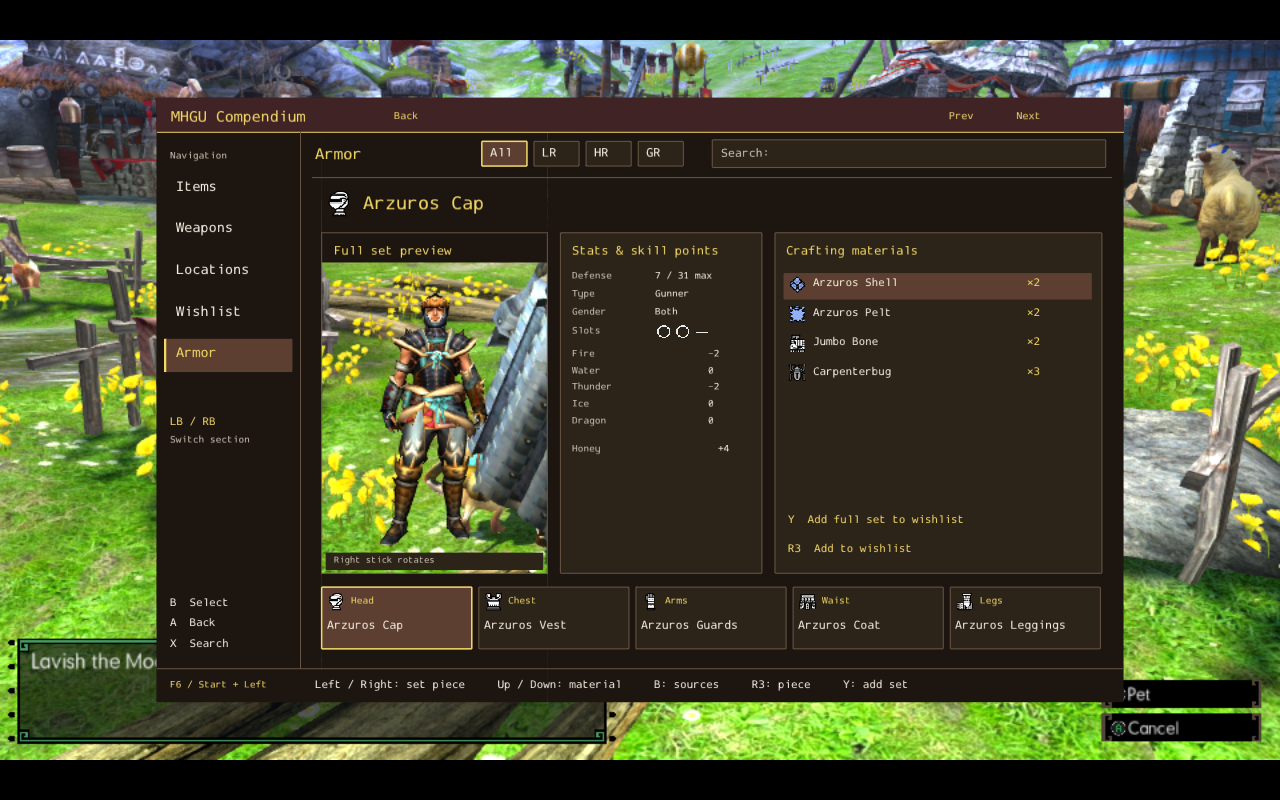
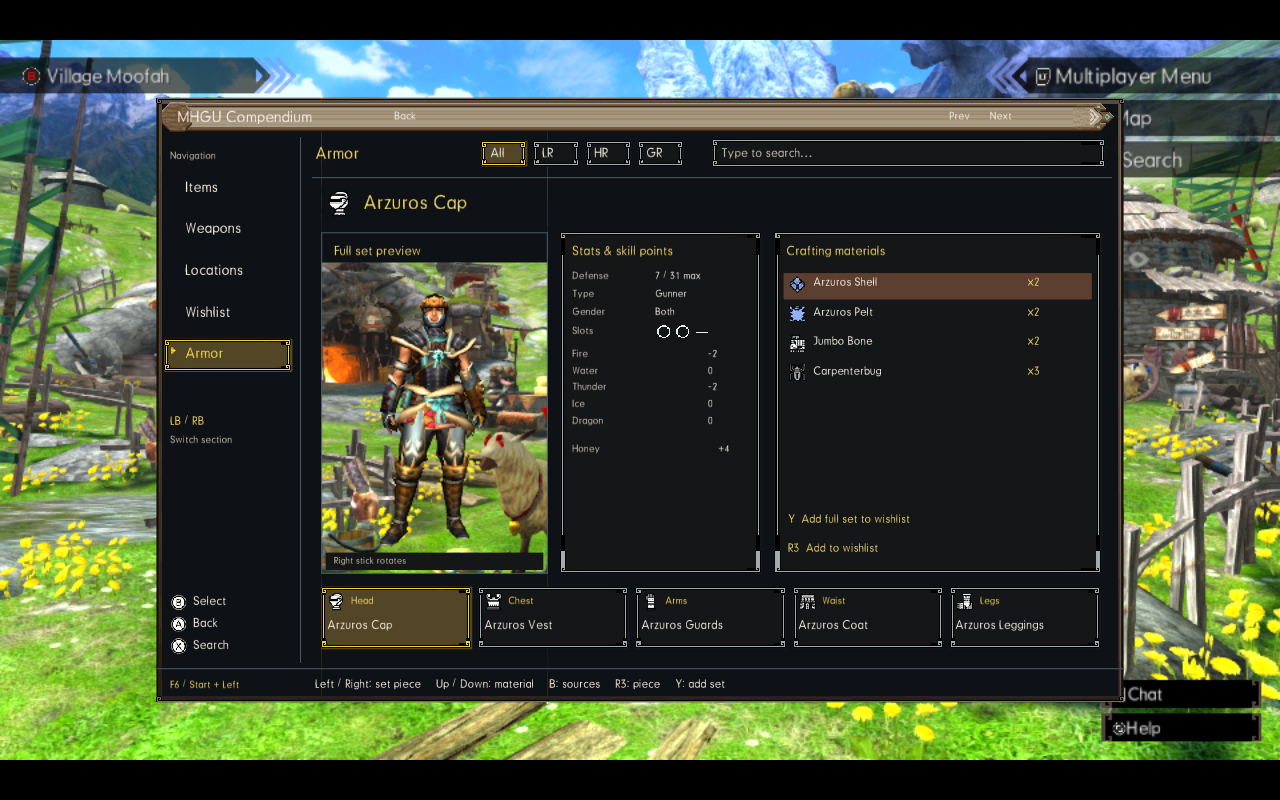
feat: use native mhgu artwork and inline search

diff --git a/mod/src/view.rs b/mod/src/view.rs
@@ -2,15 +2,17 @@ use super::{Ui,Text,catalog,world};
 use core::{fmt::Write,cell::Cell};
 use super::desktop::{self,Action};
 use forge::{imgui,sys::imgui::ImVec2};
-const BG:u32=0xff10151c;const PANEL:u32=0xff19232c;const EDGE:u32=0xff455467;const CYAN:u32=0xff65d7f2;const TEXT:u32=0xffe3eff6;const MUTED:u32=0xffb5c4ce;
-struct Canvas{d:imgui::DrawList,f:imgui::ImFont,s:f32,x:f32,y:f32,click:Option<(f32,f32)>,action:Cell<Action>}
+const BG:u32=0xff16120e;const PANEL:u32=0xff181614;const EDGE:u32=0xff62584b;const CYAN:u32=0xff65d7f2;const TEXT:u32=0xffe3eff6;const MUTED:u32=0xffb5c4ce;const GOLD:u32=0xff46d8f2;
+struct Canvas{d:imgui::DrawList,f:*mut forge::sys::imgui::ImFont,s:f32,x:f32,y:f32,click:Option<(f32,f32)>,action:Cell<Action>}
 impl Canvas{
  fn hit(&self,x:f32,y:f32,w:f32,h:f32,a:Action){if let Some((mx,my))=self.click{let p=self.v(x,y);if mx>=p.x&&mx<p.x+w*self.s&&my>=p.y&&my<p.y+h*self.s{self.action.set(a);}}}
  fn v(&self,x:f32,y:f32)->ImVec2{ImVec2{x:self.x+x*self.s,y:self.y+y*self.s}}
  fn rect(&self,x:f32,y:f32,w:f32,h:f32,c:u32){self.d.add_rect_filled(self.v(x,y),self.v(x+w,y+h),c,1.0*self.s);}
  fn line(&self,x:f32,y:f32,x2:f32,y2:f32,c:u32){self.d.add_line(self.v(x,y),self.v(x2,y2),c,self.s);}
- fn text(&self,x:f32,y:f32,t:&str,c:u32,size:f32){self.d.add_text_with_font(&self.f,size*self.s,self.v(x,y),c,t);}
- fn card(&self,x:f32,y:f32,w:f32,h:f32,selected:bool){self.rect(x,y,w,h,if selected{0xff303f5c}else{PANEL});self.d.add_rect(self.v(x,y),self.v(x+w,y+h),if selected{CYAN}else{EDGE},1.0*self.s,if selected{2.0*self.s}else{self.s},forge::sys::imgui::ImDrawFlags::None);}
+ fn text(&self,x:f32,y:f32,t:&str,c:u32,size:f32){super::game_ui::text(&self.d,self.f,size*self.s,self.v(x,y),c,t);}
+ fn frame(&self,id:usize,x:f32,y:f32,w:f32,h:f32,color:u32){let p=self.v(x,y);super::game_ui::frame(&self.d,id,[p.x,p.y,w*self.s,h*self.s],color,self.s);}
+ fn card(&self,x:f32,y:f32,w:f32,h:f32,selected:bool){self.rect(x,y,w,h,if selected{0xff274653}else{PANEL});self.frame(1,x,y,w,h,if selected{GOLD}else{0xffb5b0a5});}
+ fn button(&self,index:usize,x:f32,y:f32,label:&str){let p=self.v(x,y);super::game_ui::button(&self.d,index,[p.x,p.y,23.0*self.s,23.0*self.s]);self.text(x+31.0,y+2.0,label,TEXT,17.0);}
  fn clip(&self,x:f32,y:f32,w:f32,h:f32){self.d.push_clip_rect(self.v(x,y),self.v(x+w,y+h),true);}
  fn endclip(&self){self.d.pop_clip_rect();}
  fn sprite(&self,id:usize,x:f32,y:f32,size:f32){let pos=self.v(x,y);super::ui_art::compendium_sprite_preview(id as u32,pos.x,pos.y,size*self.s,size*self.s);}
@@ -19,25 +21,27 @@ impl Canvas{
 }
 pub(super) fn draw(u:&mut Ui){
  let size=imgui::get_io().DisplaySize;let s=(size.x/1440.0).min(size.y/900.0)*0.85*u.scale as f32/100.0;if s<=0.0{return;}
- let c=Canvas{d:imgui::DrawList::foreground(),f:imgui::ImFont::current(),s,x:(size.x-1280.0*s)/2.0,y:(size.y-800.0*s)/2.0,click:desktop::pointer(u),action:Cell::new(Action::None)};
+ let c=Canvas{d:imgui::DrawList::foreground(),f:super::game_ui::font(),s,x:(size.x-1280.0*s)/2.0,y:(size.y-800.0*s)/2.0,click:desktop::pointer(u),action:Cell::new(Action::None)};
  // The native model is rendered before Forge. Leave its viewport uncovered.
  let game_scale=(size.x/1280.0).min(size.y/720.0);
  let native=|x:f32,y:f32|{let p=c.v(x,y);[((p.x-(size.x-1280.0*game_scale)/2.0)/game_scale)as i32,((p.y-(size.y-720.0*game_scale)/2.0)/game_scale)as i32]};
  let left=native(218.0,218.0);let right=native(518.0,630.0);
  let model=super::armor::active(u)&&!u.typing&&super::armor_preview::request(super::armor::index(u),[left[0],left[1],right[0],right[1]]);
  if model{c.rect(0.0,0.0,218.0,800.0,BG);c.rect(218.0,0.0,300.0,218.0,BG);c.rect(218.0,630.0,300.0,170.0,BG);c.rect(518.0,0.0,762.0,800.0,BG);}else{c.rect(0.0,0.0,1280.0,800.0,BG);}
- c.rect(0.0,0.0,1280.0,45.0,0xff252340);c.line(0.0,45.0,1280.0,45.0,CYAN);c.text(20.0,13.0,"MHGU Compendium",CYAN,22.0);c.text(315.0,17.0,"Back",CYAN,15.0);c.hit(305.0,5.0,95.0,35.0,Action::Back);c.text(1050.0,17.0,"Prev       Next",CYAN,15.0);c.hit(1040.0,5.0,80.0,35.0,Action::Page(false));c.hit(1120.0,5.0,95.0,35.0,Action::Page(true));
- c.line(190.0,45.0,190.0,755.0,EDGE);c.text(18.0,70.0,"Navigation",MUTED,14.0);
- for(i,name)in["Items","Weapons","Locations","Wishlist","Armor"].iter().enumerate(){let y=108.0+i as f32*55.0;c.hit(10.0,y-9.0,170.0,44.0,Action::Tab(i));if i==u.tab as usize{c.rect(10.0,y-9.0,170.0,44.0,0xff303f5c);c.rect(10.0,y-9.0,3.0,44.0,CYAN);}c.text(26.0,y,name,if i==u.tab as usize{CYAN}else{TEXT},20.0);}
- c.text(18.0,420.0,"LB / RB",CYAN,16.0);c.text(18.0,445.0,"Switch section",MUTED,14.0);c.text(18.0,660.0,"B  Select",TEXT,16.0);c.text(18.0,687.0,"A  Back",TEXT,16.0);c.text(18.0,714.0,"X  Search",TEXT,16.0);
+ c.frame(0,0.0,0.0,1280.0,800.0,u32::MAX);
+ let title=c.v(8.0,6.0);super::game_ui::title(&c.d,[title.x,title.y,1264.0*s,39.0*s]);
+ c.text(28.0,14.0,"MHGU Compendium",TEXT,22.0);c.text(315.0,17.0,"Back",TEXT,15.0);c.hit(305.0,5.0,95.0,35.0,Action::Back);c.text(1050.0,17.0,"Prev       Next",TEXT,15.0);c.hit(1040.0,5.0,80.0,35.0,Action::Page(false));c.hit(1120.0,5.0,95.0,35.0,Action::Page(true));
+ c.line(190.0,51.0,190.0,748.0,EDGE);c.text(18.0,70.0,"Navigation",MUTED,14.0);
+ for(i,name)in["Items","Weapons","Locations","Wishlist","Armor"].iter().enumerate(){let y=108.0+i as f32*55.0;c.hit(10.0,y-9.0,170.0,44.0,Action::Tab(i));if i==u.tab as usize{c.card(10.0,y-9.0,170.0,44.0,true);for row in 0..5{let width=(5-row)as f32;c.rect(20.0,y+6.0+row as f32, width,1.0,GOLD);c.rect(20.0,y+6.0-row as f32,width,1.0,GOLD);}}c.text(38.0,y,name,if i==u.tab as usize{GOLD}else{TEXT},20.0);}
+ c.text(18.0,420.0,"LB / RB",CYAN,16.0);c.text(18.0,445.0,"Switch section",MUTED,14.0);c.button(3,18.0,656.0,"Select");c.button(2,18.0,685.0,"Back");c.button(1,18.0,714.0,"Search");
  let mut t=Text::new();let _=write!(t,"{}",if super::item::active(u){"Item sources"}else if super::armor::active(u){"Armor"}else if super::weapon::active(u){"Weapon details"}else{["Item list","Weapon trees","Locations","Wishlist","Armor"][u.tab as usize]});c.text(211.0,62.0,t.str(),CYAN,23.0);
- let mut q=Text::new();let _=write!(q,"Search: {}{}",core::str::from_utf8(&u.query[..u.len]).unwrap_or(""),if u.typing||u.pc_search{"_"}else{""});c.card(735.0,55.0,522.0,38.0,u.pc_search);c.hit(735.0,55.0,522.0,38.0,Action::Search);c.text(748.0,64.0,q.str(),MUTED,17.0);
+ let mut q=Text::new();if u.len==0&&!u.typing&&!u.pc_search{let _=write!(q,"Type to search...");}else{let _=write!(q,"Search: {}{}",core::str::from_utf8(&u.query[..u.len]).unwrap_or(""),if u.typing||u.pc_search{"_"}else{""});}c.card(735.0,55.0,522.0,38.0,u.pc_search);c.hit(735.0,55.0,522.0,38.0,Action::Search);c.text(748.0,64.0,q.str(),MUTED,17.0);
  if u.tab==4{for(i,label)in ["All","LR","HR","GR"].iter().enumerate(){let x=430.0+i as f32*69.0;c.card(x,57.0,61.0,34.0,u.armor_rank==i as i8-1);c.text(x+12.0,64.0,label,TEXT,18.0);c.hit(x,57.0,61.0,34.0,Action::ArmorRank(i as i8-1));}}
  if u.tab==2{for(i,rank)in["LR","HR","GR"].iter().enumerate(){let x=465.0+i as f32*75.0;c.card(x,57.0,64.0,34.0,i==u.rank as usize);c.hit(x,57.0,64.0,34.0,Action::Rank(i));c.text(x+18.0,64.0,rank,if i==u.rank as usize{CYAN}else{TEXT},18.0);}}
  c.line(205.0,105.0,1264.0,105.0,EDGE);c.clip(205.0,110.0,1059.0,635.0);
  if u.typing{keyboard(&c,u);}else if u.detail!=usize::MAX{details(&c,u);}else if u.tab==1&&u.weapon>=0{tree(&c,u);}else if u.tab==2&&u.location>=0{gather(&c,u);}else if u.tab==1||u.tab==2{grid(&c,u);}else if u.tab==3&&u.planner{quest_plan(&c);}else if u.tab==3{wishlist_view(&c,u);}else if u.tab==4{armor_list(&c,u);}else if u.tab==0&&u.item_category<0&&u.len==0{item_categories(&c,u);}else{items(&c,u);}
  c.endclip();c.line(0.0,755.0,1280.0,755.0,EDGE);
- c.text(210.0,768.0,if super::armor::active(u){"Left / Right: set piece     Up / Down: material     B: sources     R3: piece     Y: add set"}else if super::item::active(u){"Left / Right: map or source     Up / Down: rows     A: back"}else if super::weapon::active(u){if u.tree_focus{"D-pad: navigate tree     B: materials     A: weapon tree"}else if u.link==usize::MAX{"Left / Right: recipe     Up: tree     Down: materials"}else{"Up / Down: material     B: item sources     A: miniature tree"}}else if super::weapon::controls(u){"Up / Down: link     B: open     A: back"}else if u.tab==2&&u.location>=0{"Left / Right: zone     LT / RT: LR / HR / GR     B: item details"}else if u.tab==2{"D-pad: location     LT / RT: LR / HR / GR     B: browse zones"}else if u.tab==1&&u.weapon>=0{"Up / Down: column     Left / Right: upgrades     LT / RT: family     B: details"}else if u.planner{"Left / Right: quest     Up / Down: material     B: sources     Y: refresh     A: wishlist"}else{"D-pad / left stick: navigate     Right stick: scroll details"},TEXT,16.0);
+ c.text(210.0,768.0,if u.pc_search{"Type: search     Backspace: delete     Enter: results     Esc: leave search"}else if super::armor::active(u){"Left / Right: set piece     Up / Down: material     B: sources     R3: piece     Y: add set"}else if super::item::active(u){"Left / Right: map or source     Up / Down: rows     A: back"}else if super::weapon::active(u){if u.tree_focus{"D-pad: navigate tree     B: materials     A: weapon tree"}else if u.link==usize::MAX{"Left / Right: recipe     Up: tree     Down: materials"}else{"Up / Down: material     B: item sources     A: miniature tree"}}else if super::weapon::controls(u){"Up / Down: link     B: open     A: back"}else if u.tab==2&&u.location>=0{"Left / Right: zone     LT / RT: LR / HR / GR     B: item details"}else if u.tab==2{"D-pad: location     LT / RT: LR / HR / GR     B: browse zones"}else if u.tab==1&&u.weapon>=0{"Up / Down: column     Left / Right: upgrades     LT / RT: family     B: details"}else if u.planner{"Left / Right: quest     Up / Down: material     B: sources     Y: refresh     A: wishlist"}else{"D-pad / left stick: navigate     Right stick: scroll details"},TEXT,16.0);
  c.text(18.0,770.0,"F6 / Start + Left",CYAN,14.0);
  desktop::apply(u,c.action.get());
 }
@@ -237,7 +241,7 @@ pub(super) fn quick_map(u:&mut Ui){
  let size=imgui::get_io().DisplaySize;let scale=(size.x/1000.0).min(size.y/650.0).min(0.85);if scale<=0.0{return;}
  let start=u.zone/2*2;let mut lines=0;for area in start..(start+2).min(u.zone_count){let mut ids=[0;64];lines=lines.max((super::quick_map::rows(u,area,&mut ids)+1)/2);}
  let body=(49.0+lines as f32*21.0).clamp(120.0,431.0);let height=body+109.0;
- let c=Canvas{d:imgui::DrawList::foreground(),f:imgui::ImFont::current(),s:scale,x:(size.x-960.0*scale)/2.0,y:(size.y-height*scale)/2.0,click:desktop::pointer(u),action:Cell::new(Action::None)};
+ let c=Canvas{d:imgui::DrawList::foreground(),f:super::game_ui::font(),s:scale,x:(size.x-960.0*scale)/2.0,y:(size.y-height*scale)/2.0,click:desktop::pointer(u),action:Cell::new(Action::None)};
  c.rect(0.0,0.0,960.0,height,0xf525241c);
  let name=u.current.and_then(|id|world::LOCATIONS.get(id)).map(|l|l.name).unwrap_or("Gathering");
  c.text(18.0,15.0,name,CYAN,23.0);c.text(720.0,20.0,["LR","HR","GR"][u.rank.min(2)as usize],TEXT,16.0);c.text(795.0,20.0,"X  Full compendium",MUTED,14.0);c.hit(785.0,8.0,165.0,38.0,Action::QuickExpand);
@@ -259,7 +263,7 @@ pub(super) fn quick_map(u:&mut Ui){
 /// Passive hunt HUD: only outstanding wishlist materials available on this map.
 pub(super) fn wish_tracker(loc:usize,rank:u8){
  let size=imgui::get_io().DisplaySize;let s=(size.x/1280.0).min(size.y/720.0);
- let c=Canvas{d:imgui::DrawList::foreground(),f:imgui::ImFont::current(),s,x:(size.x-1280.0*s)/2.0,y:(size.y-720.0*s)/2.0,click:None,action:Cell::new(Action::None)};
+ let c=Canvas{d:imgui::DrawList::foreground(),f:super::game_ui::font(),s,x:(size.x-1280.0*s)/2.0,y:(size.y-720.0*s)/2.0,click:None,action:Cell::new(Action::None)};
  let mut seen=[65535u16;512];let mut count=0;let mut x=1005.0;let mut y=402.0;
  for wish in super::wishlist::entries(){for item in super::wishlist::recipe(wish.node,wish.recipe).unwrap().items.iter(){
   if item.points||item.entry==65535||seen[..count].contains(&item.entry){continue;}

diff --git a/tools/game_ui.py b/tools/game_ui.py
@@ -1,0 +1,131 @@
+"""Prepare native MHGU frames and a proportional font from an owned game dump.
+
+Generated art/font bytes stay under build/. No texture or font is downloaded.
+"""
+import collections,io,math,os,struct,zlib
+from pathlib import Path
+from PIL import Image
+from fontTools.fontBuilder import FontBuilder
+from fontTools.pens.ttGlyphPen import TTGlyphPen
+from paths import DATA,GENERATED
+from extract_map_pngs import decode,decode_bytes
+
+def font_bytes(glyphs,height=24,baseline=20):
+    names={code:f'uni{code:04X}' for code in glyphs}
+    fb=FontBuilder(height*64,isTTF=True)
+    fb.setupGlyphOrder(['.notdef']+list(names.values()))
+    fb.setupCharacterMap(names)
+    shapes={'.notdef':TTGlyphPen(None).glyph()};metrics={'.notdef':(height*32,0)}
+    for code,(mask,advance) in glyphs.items():
+        filled={(x,y) for y in range(mask.height) for x in range(mask.width) if mask.getpixel((x,y))>=128}
+        edges=collections.defaultdict(set)
+        for x,y in filled:
+            for a,b,neighbor in [((x,y),(x+1,y),(x,y-1)),((x+1,y),(x+1,y+1),(x+1,y)),
+                                 ((x+1,y+1),(x,y+1),(x,y+1)),((x,y+1),(x,y),(x-1,y))]:
+                if neighbor not in filled:edges[a].add(b)
+        pen=TTGlyphPen(None)
+        while edges:
+            start=min(edges);points=[start];current=start
+            while True:
+                target=min(edges[current]);edges[current].remove(target)
+                if not edges[current]:del edges[current]
+                if target==start:break
+                points.append(target);current=target
+            corners=[]
+            for i,p in enumerate(points):
+                a=points[i-1];b=points[(i+1)%len(points)]
+                if (p[0]-a[0])*(b[1]-p[1])!=(p[1]-a[1])*(b[0]-p[0]):corners.append(p)
+            if len(corners)<3:continue
+            pen.moveTo((corners[0][0]*64,(baseline-corners[0][1])*64))
+            for x,y in corners[1:]:pen.lineTo((x*64,(baseline-y)*64))
+            pen.closePath()
+        shapes[names[code]]=pen.glyph();metrics[names[code]]=(advance*64,0)
+    fb.setupGlyf(shapes);fb.setupHorizontalMetrics(metrics)
+    fb.setupHorizontalHeader(ascent=baseline*64,descent=(baseline-height)*64)
+    fb.setupNameTable({'familyName':'MHGU Field Guide','styleName':'Regular','uniqueFontIdentifier':'MHGU-local-glyphs',
+                       'fullName':'MHGU Field Guide','psName':'MHGUFieldGuide'})
+    fb.setupOS2(sTypoAscender=baseline*64,sTypoDescender=(baseline-height)*64,usWinAscent=baseline*64,usWinDescent=(height-baseline)*64)
+    fb.setupPost();fb.setupMaxp()
+    fb.font['head'].created=fb.font['head'].modified=2082844800
+    out=io.BytesIO();fb.save(out);return out.getvalue()
+
+def archive(path):
+    data=path.read_bytes();assert data[:4]==b'ARC\0'
+    result={}
+    for i in range(struct.unpack_from('<H',data,6)[0]):
+        start=12+i*80;name=data[start:start+64].split(b'\0')[0].decode()
+        _,size,_,offset=struct.unpack_from('<4I',data,start+64)
+        if 'font_festa_' in name:result[name]=data[offset:offset+size]
+    return result
+
+def font_page(blob):
+    """Native TEX v160 RGBA8 font pages, with Tegra block-linear storage."""
+    data=zlib.decompress(blob);magic,a,b,c,_=struct.unpack_from('<5I',data)
+    assert magic==0x584554 and a&4095==160
+    if c>>8&255 in (19,23):return decode_bytes(data).getchannel('A')
+    assert c>>8&255==7
+    w,h=(b>>6)&8191,b>>19;row=w*4;bh=min(16,1<<max(0,math.ceil(math.log2(max(1,h/8)))))
+    src=data[20+4*(b&63):];out=bytearray(row*h);wg=(row+63)//64
+    for y in range(h):
+        for x in range(0,row,16):
+            xi,yi=x%64,y%8
+            at=(y//(8*bh))*wg*512*bh+(x//64)*512*bh+(y//8%bh)*512
+            at+=(xi//32)*256+(yi//2)*64+(xi%32//16)*32+(yi%2)*16+xi%16
+            out[y*row+x:y*row+x+16]=src[at:at+16]
+    return Image.frombytes('RGBA',(w,h),bytes(out)).getchannel('A')
+
+def prepare(game):
+    root=game/'romfs/nativeNX';tex=root/'eng/GUI/99_texture'
+    lobby=decode(tex/'HD_lobby01_BM_NOMIP.tex')
+    lobby0=decode(tex/'HD_lobby00_BM_NOMIP.tex')
+    cache=DATA/'game-ui';cache.mkdir(exist_ok=True)
+    images=[lobby.crop((0,386,96,480)),lobby.crop((400,136,464,200)),lobby0.crop((0,272,64,336)),lobby0.crop((160,272,161,336)),lobby0.crop((328,272,424,336))]
+    images += [lobby0.crop((160+i*28,64,188+i*28,92)) for i in range(4)]
+    # Keep small native corner strips; stretch only their center in the renderer.
+    out=["pub struct Sprite{pub w:u16,pub h:u16,pub runs:&'static[(u8,u8,u8,u8,u32)]}", 'pub static SPRITES:&[Sprite]=&[']
+    for index,im in enumerate(images):
+        im=im.convert('RGBA');im.save(cache/f'{index}.png')
+        runs=[]
+        # Native texture detail is retained at RGB565 precision. Alpha stays exact.
+        im.putdata([((r>>3)*8,(g>>2)*4,(b>>3)*8,a) for r,g,b,a in im.get_flattened_data()])
+        for y in range(im.height):
+            x=0
+            while x<im.width:
+                color=im.getpixel((x,y));end=x+1
+                while end<im.width and im.getpixel((end,y))==color and end-x<255:end+=1
+                if color[3]:runs.append((x,y,end-x,int.from_bytes(bytes(color),'little')))
+                x=end
+        rectangles=[];previous={}
+        for x,y,w,color in runs:
+            key=(x,w,color);old=previous.get(key)
+            if old is not None and rectangles[old][1]+rectangles[old][3]==y:
+                rectangles[old][3]+=1
+            else:
+                old=len(rectangles);rectangles.append([x,y,w,1,color])
+            previous[key]=old
+        runs=[tuple(r) for r in rectangles]
+        out.append(f'Sprite{{w:{im.width},h:{im.height},runs:&['+','.join(str(r).replace(' ','') for r in runs)+']},')
+    out+= ['];']
+    font_dir=Path(os.environ['MHGU_FONT_DIR']) if os.environ.get('MHGU_FONT_DIR') else None
+    gfd=(font_dir/'font_festa.gfd' if font_dir else root/'eng/GUI/02_common/font/font_festa.gfd').read_bytes()
+    assert gfd[:4]==b'GFD\0'
+    height=struct.unpack_from('<I',gfd,20)[0];assert 16<=height<=96
+    count=struct.unpack_from('<I',gfd,28)[0];start=len(gfd)-count*20
+    pages=archive(root/'loc/arc/resident.arc') if not font_dir else {};decoded={};glyphs={};baseline=20
+    chars=set(range(32,384))|{0x00d7,0x2014,0x2015,0x2019,0x2026,0x2190,0x2192,0x25b6,0x2605}
+    for offset in range(start,len(gfd),20):
+        code,pos,size,metric,_=struct.unpack_from('<5I',gfd,offset)
+        if code not in chars:continue
+        page=pos&255
+        if page not in decoded:
+            blob=(font_dir/f'font_festa_{page:02}_HQ.tex.z').read_bytes() if font_dir else pages[f'GUI\\02_common\\font\\font_festa_{page:02}_HQ']
+            decoded[page]=font_page(blob)
+        x,y=pos>>8&4095,pos>>20&4095;w,h=size&4095,size>>12&4095
+        glyphs[code]=(decoded[page].crop((x,y,x+w,y+h)),metric&4095)
+        if code==ord('A'):baseline=metric>>24
+    font=font_bytes(glyphs,height,baseline);(cache/'native.ttf').write_bytes(font)
+    out.append('pub static FONT:&[u8]=&['+','.join(map(str,font))+'];')
+    (GENERATED/'game_ui.rs').write_text('\n'.join(out)+'\n')
+    print('Native UI:',len(images),'sprites,',len(glyphs),'glyphs,',len(font),'font bytes')
+
+if __name__=='__main__':prepare(Path(os.environ['MHGU_GAME_DIR']))

diff --git a/tools/preview_app.py b/tools/preview_app.py
@@ -33,21 +33,23 @@ def frame(action=None):
  # Qt paints asynchronously. Never expose the mutable list cleared by render().
  return list(ns['drawops'])
 PAGE='''<!doctype html><meta charset="utf-8"><title>Compendium Preview</title><style>
-*{box-sizing:border-box}body{margin:0;background:#12181b;color:#e6ecee;font:14px system-ui}header{padding:12px 20px;display:flex;align-items:center;gap:16px;border-bottom:1px solid #35474a}h1{font-size:16px;margin:0;color:#45ccef}span{color:#9badb1}button{background:#242d30;border:1px solid #35474a;color:#e6ecee;border-radius:4px;padding:7px 12px;cursor:pointer}button:hover{border-color:#45ccef}canvas{display:block;width:min(100%,calc((100vh - 110px)*1.6),1088px);height:auto;margin:auto;outline:0}#state{margin-left:auto}footer{text-align:center;color:#9badb1;padding:8px}</style>
+@font-face{font-family:MHGU;src:url(/native.ttf)}*{box-sizing:border-box}body{margin:0;background:#12181b;color:#e6ecee;font:14px system-ui}header{padding:12px 20px;display:flex;align-items:center;gap:16px;border-bottom:1px solid #35474a}h1{font-size:16px;margin:0;color:#45ccef}span{color:#9badb1}button{background:#242d30;border:1px solid #35474a;color:#e6ecee;border-radius:4px;padding:7px 12px;cursor:pointer}button:hover{border-color:#45ccef}canvas{display:block;width:min(100%,calc((100vh - 110px)*1.6),1088px);height:auto;margin:auto;outline:0}#state{margin-left:auto}footer{text-align:center;color:#9badb1;padding:8px}</style>
 <header><h1>Compendium Preview</h1><span>Compiled mod renderer • simulated game input</span><button onclick="send({kind:'button',bits:64})">Previous section</button><button onclick="send({kind:'button',bits:128})">Next section</button><button onclick="send({kind:'button',bits:2})">Back</button><span id="state">Ready</span></header>
 <canvas id="screen" width="1088" height="680" tabindex="0"></canvas><footer>Click to browse. Type to search. Enter selects, Esc goes back. Arrow keys navigate. [ and ] change rank. F6 toggles.</footer>
 <script>
 const canvas=document.querySelector('canvas'),ctx=canvas.getContext('2d');let chain=Promise.resolve();
 function color(n){return `rgba(${n&255},${(n>>>8)&255},${(n>>>16)&255},${(n>>>24)/255})`}
-function draw(ops){ctx.setTransform(1,0,0,1,0,0);ctx.fillStyle='#12181b';ctx.fillRect(0,0,1088,680);ctx.translate(-176,-110);for(const[k,a,b]of ops){if(k==='ImDrawList_PushClipRect'){ctx.save();ctx.beginPath();ctx.rect(a[0],a[1],a[2]-a[0],a[3]-a[1]);ctx.clip();continue}if(k==='ImDrawList_PopClipRect'){ctx.restore();continue}if(k==='text'){ctx.font=`${a[2]}px sans-serif`;ctx.textBaseline='top';ctx.fillStyle=color(b[0]);ctx.fillText(b[1],a[0],a[1]);continue}ctx.fillStyle=ctx.strokeStyle=color(b);ctx.lineWidth=1;if(k==='ImDrawList_AddLine'){ctx.beginPath();ctx.moveTo(a[0],a[1]);ctx.lineTo(a[2],a[3]);ctx.stroke()}else if(k==='ImDrawList_AddRectFilled'){ctx.fillRect(a[0],a[1],a[2]-a[0],a[3]-a[1])}else if(k==='ImDrawList_AddRect'){ctx.strokeRect(a[0],a[1],a[2]-a[0],a[3]-a[1])}}}
+function draw(ops){ctx.setTransform(1,0,0,1,0,0);ctx.fillStyle='#12181b';ctx.fillRect(0,0,1088,680);ctx.translate(-176,-110);for(const[k,a,b]of ops){if(k==='ImDrawList_PushClipRect'){ctx.save();ctx.beginPath();ctx.rect(a[0],a[1],a[2]-a[0],a[3]-a[1]);ctx.clip();continue}if(k==='ImDrawList_PopClipRect'){ctx.restore();continue}if(k==='text'){ctx.font=`${a[2]}px MHGU, sans-serif`;ctx.textBaseline='top';ctx.fillStyle=color(b[0]);ctx.fillText(b[1],a[0],a[1]);continue}ctx.fillStyle=ctx.strokeStyle=color(b);ctx.lineWidth=1;if(k==='ImDrawList_AddLine'){ctx.beginPath();ctx.moveTo(a[0],a[1]);ctx.lineTo(a[2],a[3]);ctx.stroke()}else if(k==='ImDrawList_AddRectFilled'){ctx.fillRect(a[0],a[1],a[2]-a[0],a[3]-a[1])}else if(k==='ImDrawList_AddRect'){ctx.strokeRect(a[0],a[1],a[2]-a[0],a[3]-a[1])}}}
 function send(a){chain=chain.then(async()=>{document.querySelector('#state').textContent='Rendering';const r=await fetch('/frame',{method:'POST',body:JSON.stringify(a)});if(!r.ok)throw Error(await r.text());draw(await r.json());document.querySelector('#state').textContent='Ready'}).catch(e=>document.querySelector('#state').textContent=e.message)}
 canvas.addEventListener('click',e=>{canvas.focus();const r=canvas.getBoundingClientRect();send({kind:'click',x:176+(e.clientX-r.left)*1088/r.width,y:110+(e.clientY-r.top)*680/r.height})});
 const keys={Enter:40,Escape:41,Backspace:42,Tab:43,' ':44,'-':45,"'":52,ArrowRight:79,ArrowLeft:80,ArrowDown:81,ArrowUp:82,PageUp:75,PageDown:78,F6:63};
 window.addEventListener('keydown',e=>{if(e.ctrlKey||e.metaKey||e.altKey)return;const s=e.key.toLowerCase();let code=keys[e.key];if(/^[a-z]$/.test(s))code=s.charCodeAt(0)-97+4;if(/^[0-9]$/.test(s))code=s==='0'?39:29+Number(s);if(s==='['||s===']'){e.preventDefault();send({kind:'button',bits:s==='['?256:512});return}if(code!==undefined){e.preventDefault();send({kind:'key',key:code})}});
-canvas.addEventListener('wheel',e=>{e.preventDefault();send({kind:'wheel',delta:e.deltaY>0?-1:1})},{passive:false});send({});
+canvas.addEventListener('wheel',e=>{e.preventDefault();send({kind:'wheel',delta:e.deltaY>0?-1:1})},{passive:false});document.fonts.load('16px MHGU').then(()=>send({}));
 </script>'''
 class Handler(BaseHTTPRequestHandler):
  def do_GET(self):
+  if self.path=='/native.ttf':
+   self.send_response(200);self.send_header('Content-Type','font/ttf');self.end_headers();self.wfile.write((ROOT/'build/data/game-ui/native.ttf').read_bytes());return
   self.send_response(200);self.send_header('Content-Type','text/html; charset=utf-8');self.end_headers();self.wfile.write(PAGE.encode())
  def do_POST(self):
   try:

diff --git a/mod/src/game_ui.rs b/mod/src/game_ui.rs
@@ -1,0 +1,42 @@
+//! Native MHGU frame artwork and locally prepared proportional glyph outlines.
+use forge::{imgui,sys::imgui::{self as sys,ImVec2}};
+use super::game_ui_data as data;
+static RANGES:&[u16]=&[32,383,0x2014,0x2015,0x2019,0x2019,0x2026,0x2026,0x2190,0x2192,0x2605,0x2605,0];
+static mut FONT:*mut sys::ImFont=core::ptr::null_mut();
+
+#[unsafe(no_mangle)]pub extern "C" fn forge_onImGuiInit(_: *mut core::ffi::c_void,_: *mut core::ffi::c_void,_: *mut core::ffi::c_void){unsafe{
+ let atlas=imgui::get_io().Fonts;if atlas.is_null(){return;}
+ let cfg=sys::ImFontConfig_ImFontConfig();if cfg.is_null(){return;}
+ (*cfg).FontDataOwnedByAtlas=false;(*cfg).PixelSnapH=false;
+ FONT=sys::ImFontAtlas_AddFontFromMemoryTTF(atlas,data::FONT.as_ptr()as *mut _,data::FONT.len()as i32,24.0,cfg,RANGES.as_ptr());
+ sys::ImFontConfig_destroy(cfg);
+}}
+pub fn font()->*mut sys::ImFont{unsafe{if FONT.is_null(){imgui::ImFont::current().raw()}else{FONT}}}
+pub fn text(d:&imgui::DrawList,font:*mut sys::ImFont,size:f32,pos:ImVec2,color:u32,text:&str){unsafe{
+ sys::ImDrawList_AddText_FontPtr(d.raw(),font,size,pos,color,text.as_ptr(),text.as_ptr().add(text.len()),0.0,core::ptr::null());
+}}
+fn tint(color:u32,mul:u32)->u32{
+ let channel=|shift:u32|(((color>>shift)&255)*((mul>>shift)&255)/255)<<shift;
+ channel(0)|channel(8)|channel(16)|channel(24)
+}
+fn part(d:&imgui::DrawList,id:usize,source:[f32;4],target:[f32;4],color:u32){
+ let sprite=&data::SPRITES[id];let [sx,sy,sw,sh]=source;let [x,y,w,h]=target;if sw<=0.0||sh<=0.0||w<=0.0||h<=0.0{return;}
+ for &(px,py,pw,ph,c) in sprite.runs{
+  let left=(px as f32).max(sx);let top=(py as f32).max(sy);let right=((px+pw)as f32).min(sx+sw);let bottom=((py+ph)as f32).min(sy+sh);
+  if right<=left||bottom<=top{continue;}
+  d.add_rect_filled(ImVec2{x:x+(left-sx)*w/sw,y:y+(top-sy)*h/sh},ImVec2{x:x+(right-sx)*w/sw,y:y+(bottom-sy)*h/sh},tint(c,color),0.0);
+ }
+}
+pub fn frame(d:&imgui::DrawList,id:usize,rect:[f32;4],color:u32,scale:f32){
+ let p=&data::SPRITES[id];let [x,y,w,h]=rect;let edge=(8.0*scale).min(w/3.0).min(h/3.0);
+ let xs=[0.0,12.0,p.w as f32-12.0,p.w as f32];let ys=[0.0,12.0,p.h as f32-12.0,p.h as f32];
+ let dx=[x,x+edge,x+w-edge,x+w];let dy=[y,y+edge,y+h-edge,y+h];
+ for row in 0..3{for col in 0..3{if row==1&&col==1{continue;}part(d,id,[xs[col],ys[row],xs[col+1]-xs[col],ys[row+1]-ys[row]],[dx[col],dy[row],dx[col+1]-dx[col],dy[row+1]-dy[row]],color);}}
+}
+pub fn title(d:&imgui::DrawList,rect:[f32;4]){
+ let[x,y,w,h]=rect;let left=h;let right=h*1.5;
+ part(d,2,[0.0,0.0,64.0,64.0],[x,y,left,h],u32::MAX);
+ part(d,3,[0.0,0.0,1.0,64.0],[x+left,y,(w-left-right).max(0.0),h],u32::MAX);
+ part(d,4,[0.0,0.0,96.0,64.0],[x+w-right,y,right,h],u32::MAX);
+}
+pub fn button(d:&imgui::DrawList,index:usize,rect:[f32;4]){part(d,5+index,[0.0,0.0,28.0,28.0],rect,u32::MAX);}

diff --git a/tools/prepare.py b/tools/prepare.py
@@ -26,13 +26,13 @@ def main():
     p.add_argument('--database',type=Path)
     p.add_argument('--game-dir',type=Path)
     p.add_argument('--art-dir',type=Path,help='local cache containing location-art/ and weapon-art/')
-    p.add_argument('--generated-dir',type=Path,help='reuse all eight pre-generated Rust data files unchanged')
+    p.add_argument('--generated-dir',type=Path,help='reuse all nine pre-generated Rust data files unchanged')
     a=p.parse_args()
     DATA.mkdir(parents=True,exist_ok=True);GENERATED.mkdir(parents=True,exist_ok=True)
     if a.generated_dir:
-        modules=('quest_data','armor_data','catalog','world','weapon_data','item_data','map_pixels','ui_pixels')
+        modules=('game_ui','quest_data','armor_data','catalog','world','weapon_data','item_data','map_pixels','ui_pixels')
         inputs=[a.generated_dir/f'{name}.rs' for name in modules]
-        if not all(path.is_file() for path in inputs):p.error('generated-dir must contain all eight generated Rust modules')
+        if not all(path.is_file() for path in inputs):p.error('generated-dir must contain all nine generated Rust modules')
         for source in inputs:shutil.copyfile(source,GENERATED/source.name)
         if a.catalog:
             shutil.copyfile(a.catalog,DATA/'catalog.json')
@@ -61,7 +61,7 @@ def main():
     env=os.environ.copy();env['MHGU_DATABASE']=str(a.database.resolve());env['MHGU_GAME_DIR']=str(a.game_dir.resolve())
     def run(name,*args):subprocess.run([sys.executable,str(ROOT/'tools'/name),*map(str,args)],env=env,check=True)
     run('extract_map_pngs.py',a.game_dir,DATA/'location-maps')
-    for script in ('world.py','embed.py','item_data.py','armor_data.py','quest_data.py','map_art.py','ui_art.py'):run(script)
+    for script in ('world.py','embed.py','item_data.py','armor_data.py','quest_data.py','game_ui.py','map_art.py','ui_art.py'):run(script)
     manifest={'catalog_sha256':hashlib.sha256(a.catalog.read_bytes()).hexdigest(),
               'database_sha256':hashlib.sha256(a.database.read_bytes()).hexdigest(),
               'generated_sha256':{p.name:hashlib.sha256(p.read_bytes()).hexdigest() for p in sorted(GENERATED.glob('*.rs'))},

diff --git a/mod/src/lib.rs b/mod/src/lib.rs
@@ -1,5 +1,5 @@
 #![no_std]
-mod quest;mod quest_data {include!(concat!(env!("OUT_DIR"),"/quest_data.rs"));}mod search;mod armor_preview;mod armor;mod armor_data { include!(concat!(env!("OUT_DIR"),"/armor_data.rs")); }mod quick_map;mod inventory;mod wishlist;mod native_hint;mod smithy;mod item;mod item_data { include!(concat!(env!("OUT_DIR"),"/item_data.rs")); }mod ui_art;mod ui_pixels { include!(concat!(env!("OUT_DIR"),"/ui_pixels.rs")); }mod weapon;mod weapon_data { include!(concat!(env!("OUT_DIR"),"/weapon_data.rs")); }mod map_art;mod map_pixels { include!(concat!(env!("OUT_DIR"),"/map_pixels.rs")); }mod layout;mod desktop;mod control;mod input;mod catalog { include!(concat!(env!("OUT_DIR"),"/catalog.rs")); }mod world { include!(concat!(env!("OUT_DIR"),"/world.rs")); }mod context;mod view;
+mod game_ui;mod game_ui_data{include!(concat!(env!("OUT_DIR"),"/game_ui.rs"));}mod quest;mod quest_data {include!(concat!(env!("OUT_DIR"),"/quest_data.rs"));}mod search;mod armor_preview;mod armor;mod armor_data { include!(concat!(env!("OUT_DIR"),"/armor_data.rs")); }mod quick_map;mod inventory;mod wishlist;mod native_hint;mod smithy;mod item;mod item_data { include!(concat!(env!("OUT_DIR"),"/item_data.rs")); }mod ui_art;mod ui_pixels { include!(concat!(env!("OUT_DIR"),"/ui_pixels.rs")); }mod weapon;mod weapon_data { include!(concat!(env!("OUT_DIR"),"/weapon_data.rs")); }mod map_art;mod map_pixels { include!(concat!(env!("OUT_DIR"),"/map_pixels.rs")); }mod layout;mod desktop;mod control;mod input;mod catalog { include!(concat!(env!("OUT_DIR"),"/catalog.rs")); }mod world { include!(concat!(env!("OUT_DIR"),"/world.rs")); }mod context;mod view;
 use core::{cell::UnsafeCell,fmt::{self,Write}};
 use forge::{imgui,input::{Input,Button}};
 pub struct Entry{pub name:&'static str,pub kind:u8,pub body:&'static str,pub links:&'static [(usize,&'static str)]}

diff --git a/mod/src/desktop.rs b/mod/src/desktop.rs
@@ -20,7 +20,7 @@ pub fn keys(u:&mut Ui,p:&mut u32){
  let mut typed=[0u8;40];let mut typed_len=0;
  for (key,ch) in [(Key::A,b'a'),(Key::B,b'b'),(Key::C,b'c'),(Key::D,b'd'),(Key::E,b'e'),(Key::F,b'f'),(Key::G,b'g'),(Key::H,b'h'),(Key::I,b'i'),(Key::J,b'j'),(Key::K,b'k'),(Key::L,b'l'),(Key::M,b'm'),(Key::N,b'n'),(Key::O,b'o'),(Key::P,b'p'),(Key::Q,b'q'),(Key::R,b'r'),(Key::S,b's'),(Key::T,b't'),(Key::U,b'u'),(Key::V,b'v'),(Key::W,b'w'),(Key::X,b'x'),(Key::Y,b'y'),(Key::Z,b'z'),(Key::N0,b'0'),(Key::N1,b'1'),(Key::N2,b'2'),(Key::N3,b'3'),(Key::N4,b'4'),(Key::N5,b'5'),(Key::N6,b'6'),(Key::N7,b'7'),(Key::N8,b'8'),(Key::N9,b'9'),(Key::Space,b' '),(Key::Minus,b'-'),(Key::Apostrophe,b'\'')]{if Input::is_key_pressed(key){typed[typed_len]=ch;typed_len+=1;}}
  // Printable physical keys take precedence over the game's WASD/controller mapping.
- if typed_len>0&&!Input::is_ctrl_down()&&!Input::is_alt_down(){u.pc_search=true;u.typing=false;}
+ if typed_len>0&&!Input::is_ctrl_down()&&!Input::is_alt_down(){u.pc_search=true;u.typing=false;*p=0;}
  if u.pc_search{let finish=*p&3!=0;*p=0;if finish{u.pc_search=false;return;}if Input::is_key_pressed(Key::Enter){u.pc_search=false;return;}
   if Input::is_ctrl_down(){if Input::is_key_pressed(Key::A){u.len=0;changed(u);}return;}
   for ch in &typed[..typed_len]{if u.len<48{u.query[u.len]=*ch;u.len+=1;changed(u);}}

diff --git a/tests/test_game_ui.py b/tests/test_game_ui.py
@@ -1,0 +1,16 @@
+"""Native bitmap font conversion preserves glyph shapes and proportional metrics."""
+import io,sys,unittest
+from pathlib import Path
+from PIL import Image
+from fontTools.ttLib import TTFont
+from fontTools.pens.areaPen import AreaPen
+sys.path.insert(0,str(Path(__file__).resolve().parents[1]/'tools'))
+from game_ui import font_bytes
+class NativeFontTest(unittest.TestCase):
+ def test_holes_and_proportional_advance_survive_conversion(self):
+  ring=Image.new('L',(3,3),255);ring.putpixel((1,1),0)
+  font=TTFont(io.BytesIO(font_bytes({ord('I'):(ring,4),ord('W'):(ring,8)})))
+  cmap=font.getBestCmap();self.assertEqual(font['hmtx'].metrics[cmap[ord('I')]][0],4*64)
+  self.assertEqual(font['hmtx'].metrics[cmap[ord('W')]][0],8*64)
+  pen=AreaPen(font.getGlyphSet());font.getGlyphSet()[cmap[ord('I')]].draw(pen)
+  self.assertEqual(abs(pen.value),8*64*64)

diff --git a/tests/arm_inline_search.py b/tests/arm_inline_search.py
@@ -1,0 +1,19 @@
+"""Physical typing wins over mapped game confirm/back and never opens the OSK."""
+import sys
+from pathlib import Path
+ROOT=Path(__file__).resolve().parents[1];sys.path.insert(0,str(ROOT/'tools'))
+import preview_app as p
+n=p.ns
+def physical(key,mapped=0):
+ n['hid'](mapped);n['key_pressed'].add(key);n['render']();n['key_pressed'].clear();n['hid'](0);n['render']()
+physical(13,1) # J is a common game-confirm binding.
+assert 'Search: j_' in n['texts'],n['texts']
+physical(4)
+physical(10)
+physical(10)
+physical(12)
+physical(44,2) # Space can also be mapped to game-back.
+assert 'Search: jaggi _' in n['texts'],n['texts']
+assert 'Space' not in n['texts'] and 'Done' not in n['texts']
+assert any('Jaggi' in s for s in n['texts'])
+print('ARM inline physical typing overrides game bindings without OSK')

diff --git a/tests/arm_smoke.py b/tests/arm_smoke.py
@@ -99,7 +99,7 @@ def preview(name):
   if kind=='ImDrawList_PopClipRect':clips.pop();continue
   layer=Image.new('RGBA',im.size);paint=ImageDraw.Draw(layer)
   if kind=='text':
-   x,y,size=coords;font=ImageFont.truetype('/usr/share/fonts/TTF/DejaVuSans.ttf',max(1,int(size)))
+   x,y,size=coords;font=ImageFont.truetype(str(ROOT/'build/data/game-ui/native.ttf') if (ROOT/'build/data/game-ui/native.ttf').is_file() else '/usr/share/fonts/TTF/DejaVuSans.ttf',max(1,int(size)))
    paint.text((x,y),arg[1],font=font,fill=color(arg[0]),anchor='lt')
   elif kind=='ImDrawList_AddLine':paint.line(coords,fill=color(arg),width=1)
   elif kind=='ImDrawList_AddRect':paint.rectangle(coords,outline=color(arg),width=1)

diff --git a/tools/extract_map_pngs.py b/tools/extract_map_pngs.py
@@ -3,11 +3,12 @@ import struct,math
 from pathlib import Path
 from PIL import Image
 ROOT=Path(__file__).resolve().parents[1]
-def decode(path):
- d=path.read_bytes();magic,a,b,c,length=struct.unpack_from('<5I',d)
+def decode(path):return decode_bytes(path.read_bytes())
+def decode_bytes(d):
+ magic,a,b,c,length=struct.unpack_from('<5I',d)
  assert magic==0x584554 and a&4095==160
  w,h=(b>>6)&8191,b>>19;fmt=(c>>8)&255;mips=b&63
- assert fmt in (19,23),(path,fmt)
+ assert fmt in (19,23),fmt
  size=8 if fmt==19 else 16;wb,hb=(w+3)//4,(h+3)//4;bh=min(16,1<<max(0,math.ceil(math.log2(max(1,hb/8)))))
  src=d[20+4*mips:];row=wb*size;wg=(row+63)//64;out=bytearray(row*hb)
  for y in range(hb):

diff --git a/mod/build.rs b/mod/build.rs
@@ -2,7 +2,7 @@ use std::{env,fs,path::PathBuf};
 fn main() {
     let root=PathBuf::from(env::var("CARGO_MANIFEST_DIR").unwrap()).join("../build/generated");
     let out=PathBuf::from(env::var("OUT_DIR").unwrap());
-    for name in ["quest_data","armor_data","catalog","world","weapon_data","item_data","map_pixels","ui_pixels"] {
+    for name in ["game_ui","quest_data","armor_data","catalog","world","weapon_data","item_data","map_pixels","ui_pixels"] {
         let input=root.join(format!("{name}.rs"));
         println!("cargo:rerun-if-changed={}",input.display());
         fs::copy(&input,out.join(format!("{name}.rs")))
